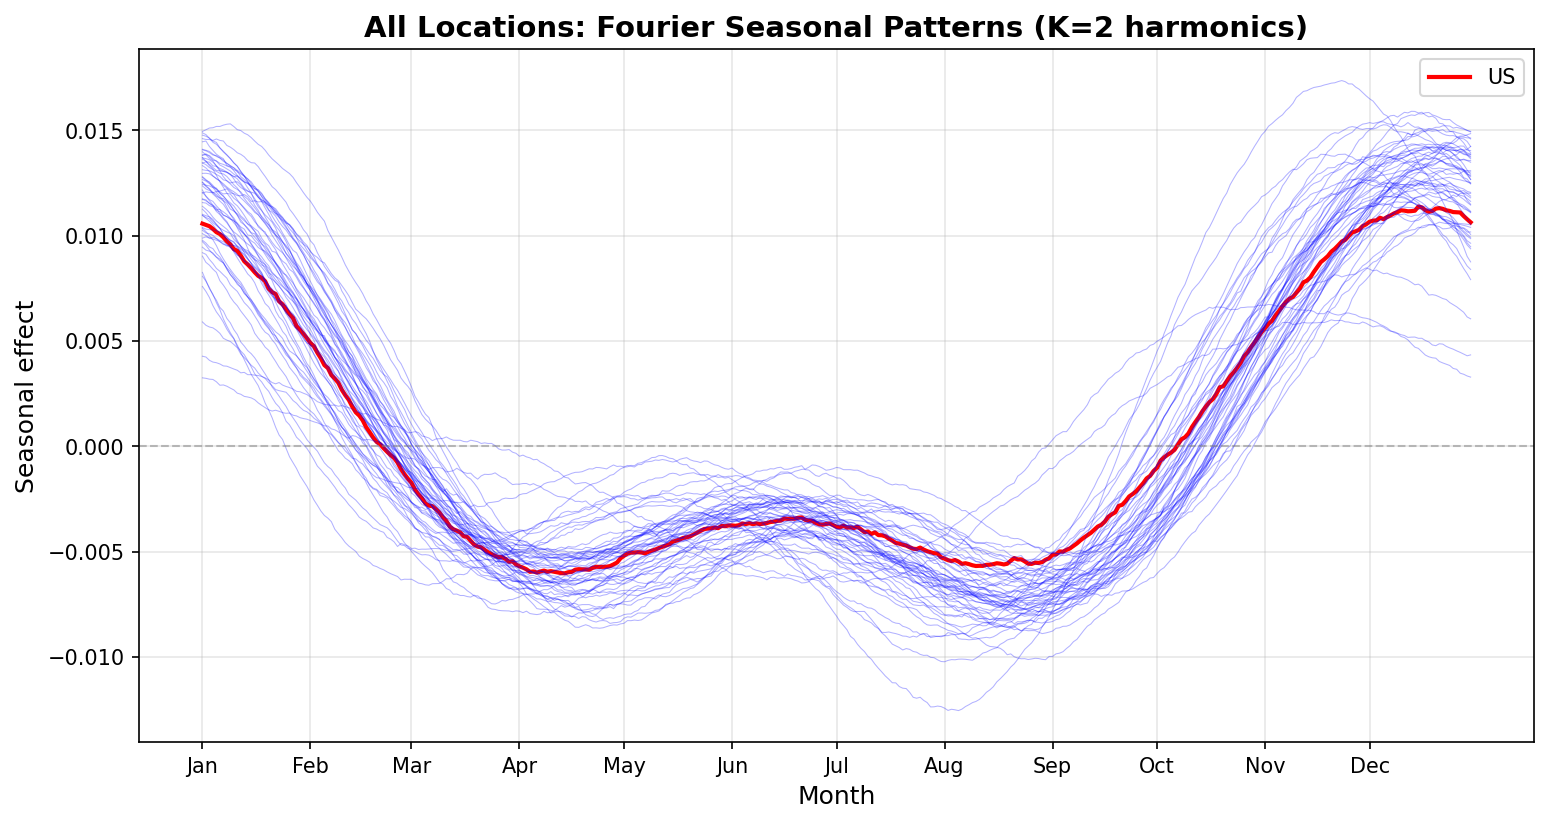
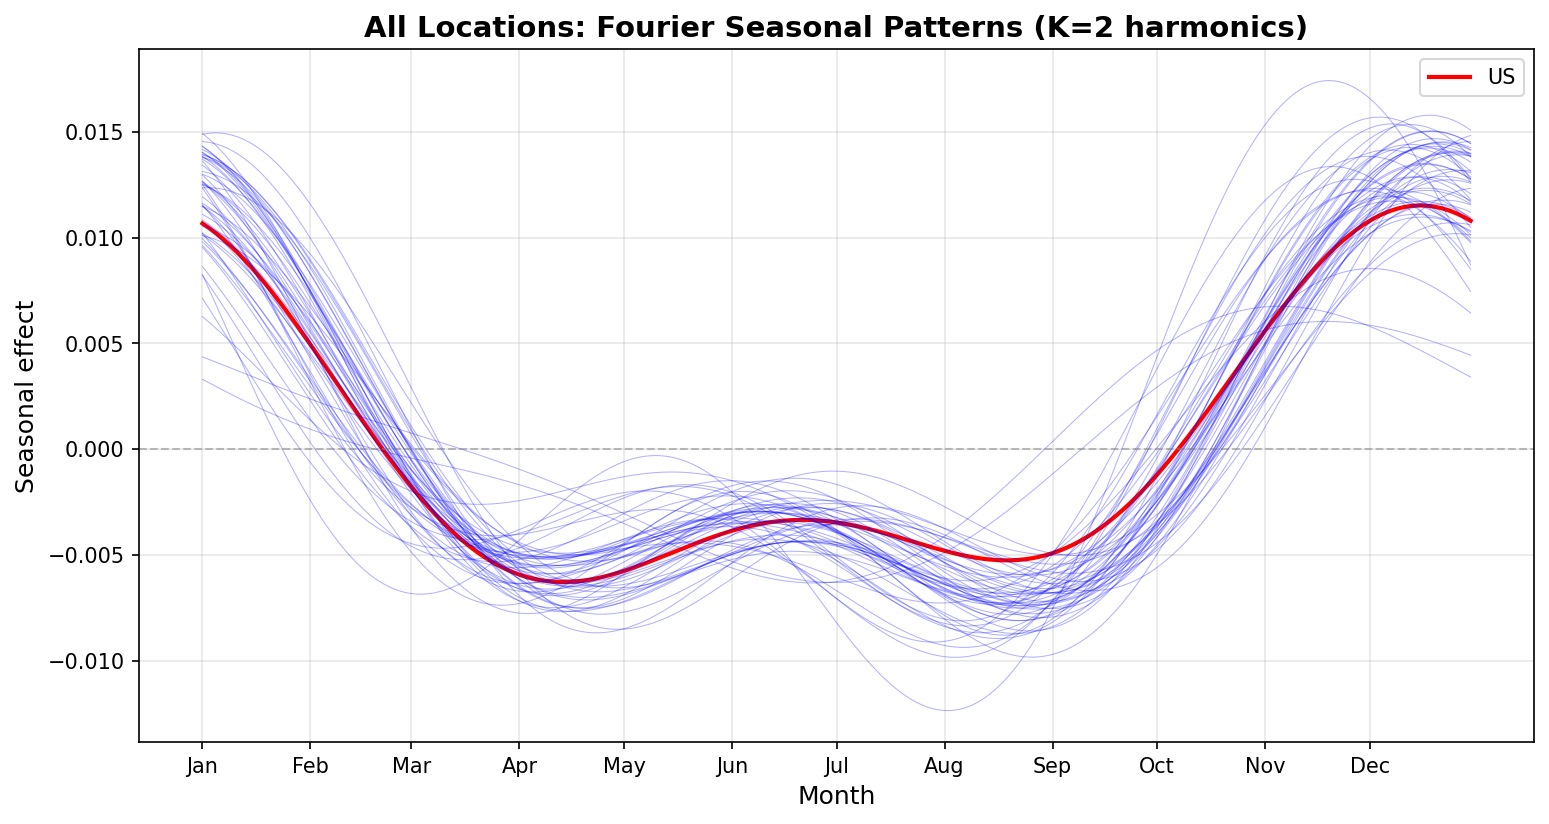
fix jagged curves and uncertainty.

diff --git a/src/AR6_fourier_pooled_both/plot_fourier_seasonality.py b/src/AR6_fourier_pooled_both/plot_fourier_seasonality.py
@@ -172,24 +172,23 @@ def main():
 
     # Calculate seasonality curves for each location
     # fourier_beta: (num_samples, n_locations, 1, 2*K)
-    # fourier_features_grid: (365, 2*K)
-    # We want: (n_locations, 365) with median and credible intervals
+    # Strategy:
+    # - Median: use median coefficients for smooth curve
+    # - Credible intervals: use all samples for correct uncertainty
 
     # Squeeze out the variable dimension first
     fourier_beta_reshaped = fourier_beta.squeeze(axis=2)  # (num_samples, n_locations, 2*K)
 
-    # Compute seasonality: for each sample and location, features @ beta
-    # Shape: (num_samples, n_locations, 365)
-    seasonality_samples = np.einsum(
-        'tk,slk->slt',
-        fourier_features_grid,
-        fourier_beta_reshaped
-    )
+    # Compute smooth median curve from median coefficients
+    beta_median = np.median(fourier_beta_reshaped, axis=0)  # (n_locations, 2*K)
+    seasonality_median = np.einsum('tk,lk->lt', fourier_features_grid, beta_median)  # (n_locations, 365)
 
-    # Calculate median and credible intervals
-    seasonality_median = np.median(seasonality_samples, axis=0)  # (n_locations, 365)
-    seasonality_lower = np.percentile(seasonality_samples, 2.5, axis=0)
-    seasonality_upper = np.percentile(seasonality_samples, 97.5, axis=0)
+    # For credible intervals: compute all curves, then take pointwise percentiles
+    # This gives correct uncertainty representation
+    # Shape: (num_samples, n_locations, 365)
+    seasonality_samples = np.einsum('tk,slk->slt', fourier_features_grid, fourier_beta_reshaped)
+    seasonality_lower = np.percentile(seasonality_samples, 2.5, axis=0)  # (n_locations, 365)
+    seasonality_upper = np.percentile(seasonality_samples, 97.5, axis=0)  # (n_locations, 365)
 
     # Convert day-of-year to month labels for x-axis
     dates = pd.date_range('2024-01-01', periods=365, freq='D')
